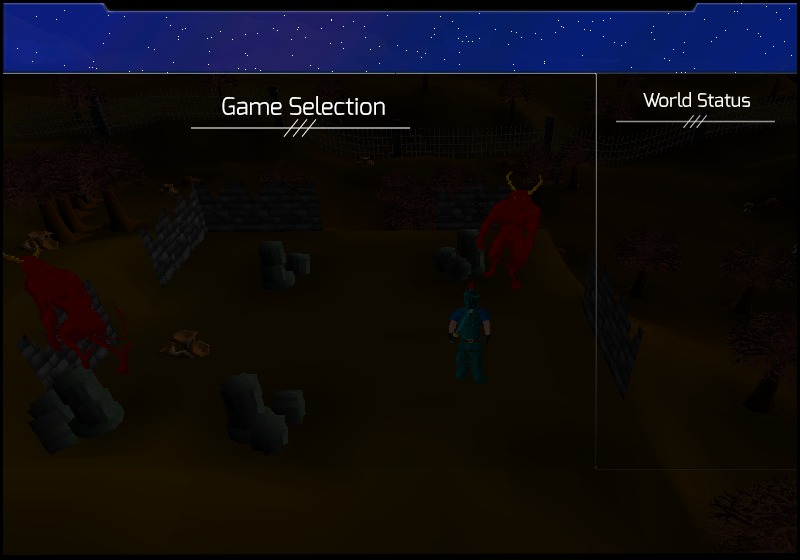
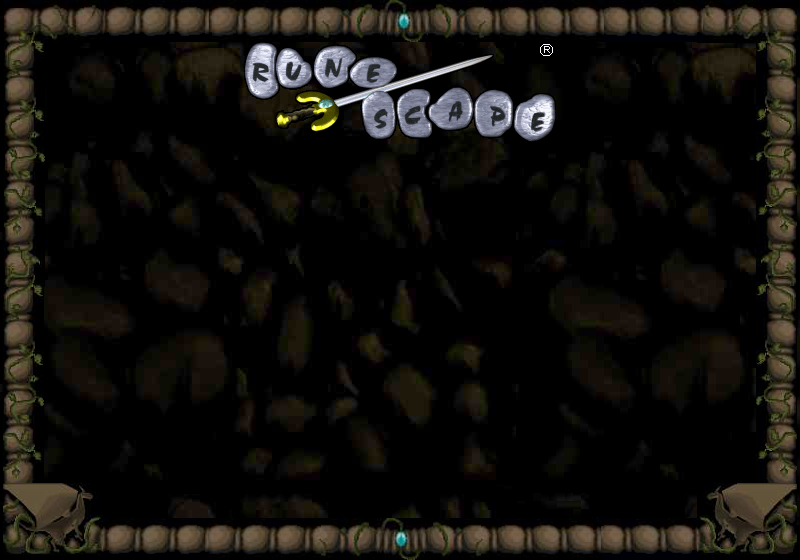
PC launcher redesign

diff --git a/PC_Launcher/src/com/loader/openrsc/frame/AppFrame.java b/PC_Launcher/src/com/loader/openrsc/frame/AppFrame.java
@@ -20,12 +20,10 @@ public class AppFrame extends JFrame {
 	// ORSC section
 	private JLabel orsc_status;
 	private JLabel orsc_online;
-	private JLabel orsc_logins48;
 
 	// RSCC section
 	private JLabel rscc_status;
 	private JLabel rscc_online;
-	private JLabel rscc_logins48;
 
 	// Open PK section
 	private JLabel openpk_status;
@@ -35,9 +33,6 @@ public class AppFrame extends JFrame {
 
 	// Dev World section
 	private JLabel dev_status;
-
-	// Localhost section
-	private JLabel local_status;
 
 	private CheckCombo comboBox;
 
@@ -64,26 +59,11 @@ public class AppFrame extends JFrame {
 	public void build() {
 		Random rand = new Random();
 		int value = rand.nextInt(6);
-		if (value == 0) {
-			(this.bg = new JLabel(Utils.getImage("background.png"))).setBounds(0, 0, 800, 560);
-		} else if (value == 1) {
-			(this.bg = new JLabel(Utils.getImage("background2.png"))).setBounds(0, 0, 800, 560);
-		} else if (value == 2) {
-			(this.bg = new JLabel(Utils.getImage("background3.png"))).setBounds(0, 0, 800, 560);
-		} else if (value == 3) {
-			(this.bg = new JLabel(Utils.getImage("background4.png"))).setBounds(0, 0, 800, 560);
-		} else if (value == 4) {
-			(this.bg = new JLabel(Utils.getImage("background5.png"))).setBounds(0, 0, 800, 560);
-		} else if (value == 5) {
-			(this.bg = new JLabel(Utils.getImage("background6.png"))).setBounds(0, 0, 800, 560);
-		} else if (value == 6) {
-			(this.bg = new JLabel(Utils.getImage("background7.png"))).setBounds(0, 0, 800, 560);
-		}
+		(this.bg = new JLabel(Utils.getImage("background.png"))).setBounds(0, 0, 800, 560);
 
 		this.add(this.bg);
 		this.addGameSelection();
 		this.addButtons();
-		this.addGameDescriptions();
 		this.addMouseListener(new PositionListener(this));
 		this.addMouseMotionListener(new PositionListener(this));
 		this.pack();
@@ -92,16 +72,9 @@ public class AppFrame extends JFrame {
 	}
 
 	private void addGameSelection() {
-		// Header text
-		JLabel text;
-		(text = new JLabel(Constants.Title)).setBounds(250, 19, 600, 45);
-		text.setForeground(new Color(255, 255, 255, 220));
-		text.setFont(Utils.getFont("Exo-Regular.otf", 1, 24.0f));
-		this.bg.add(text);
-
 		// Version text
 		JLabel subText;
-		(subText = new JLabel("Version " + String.format("%8.6f", Constants.VERSION_NUMBER))).setBounds(650, 54, 170, 15);
+		(subText = new JLabel("Version " + String.format("%8.6f", Constants.VERSION_NUMBER))).setBounds(630, 40, 170, 15);
 		subText.setForeground(new Color(255, 255, 255, 220));
 		subText.setFont(Utils.getFont("Exo-Regular.otf", 1, 10.0f));
 		this.bg.add(subText);
@@ -123,12 +96,6 @@ public class AppFrame extends JFrame {
 		this.rscc_online.setBounds(rscc_x, rscc_y + 13, 327, 15);
 		this.bg.add(this.rscc_online);
 
-		// Logged in the last 48 hours - spaced 16px apart
-		(this.rscc_logins48 = new JLabel("Online Last 48 Hours: N/A")).setForeground(Color.WHITE);
-		this.rscc_logins48.setFont(Utils.getFont("Exo-Regular.otf", 0, 11.0f));
-		this.rscc_logins48.setBounds(rscc_x, rscc_y + 26, 327, 15);
-		this.bg.add(this.rscc_logins48);
-
 		/*
 		 * Open RSC
 		 */
@@ -145,12 +112,6 @@ public class AppFrame extends JFrame {
 		this.orsc_online.setFont(Utils.getFont("Exo-Regular.otf", 0, 11.0f));
 		this.orsc_online.setBounds(orsc_x, orsc_y + 13, 327, 15);
 		this.bg.add(this.orsc_online);
-
-		// Logged in the last 48 hours - spaced 16px apart
-		(this.orsc_logins48 = new JLabel("Online Last 48 Hours: N/A")).setForeground(Color.WHITE);
-		this.orsc_logins48.setFont(Utils.getFont("Exo-Regular.otf", 0, 11.0f));
-		this.orsc_logins48.setBounds(orsc_x, orsc_y + 26, 327, 15);
-		this.bg.add(this.orsc_logins48);
 
 		/*
 		 * Open PK
@@ -186,31 +147,19 @@ public class AppFrame extends JFrame {
 		this.bg.add(this.dev_status);
 
 		/*
-		 * Localhost
-		 */
-		// Server status check - spaced 12px apart
-		(this.local_status = new JLabel(Constants.LOCALHOST_GAME_NAME + ": N/A")).setForeground(Color.WHITE);
-		this.local_status.setFont(Utils.getFont("Exo-Regular.otf", 0, 11.0f));
-		int local_x = 630;
-		int local_y = dev_y + 26; //
-		this.local_status.setBounds(local_x, local_y + 12, 327, 15);
-		this.bg.add(this.local_status);
-
-		/*
 		 * Sprite pack
 		 */
-
-		//Sprite pack
+		// Sprite pack
 		JLabel sprite_pack = new JLabel("Available sprite packs:");
 		sprite_pack.setForeground(Color.WHITE);
-		sprite_pack.setBounds(600, local_y + 100, 150, 15);
+		sprite_pack.setBounds(610, dev_y + 50, 150, 15);
 		this.bg.add(sprite_pack);
 
 		comboBox = new CheckCombo();
-		comboBox.combo.setBounds(600, local_y + 120, 190, 30);
+		comboBox.combo.setBounds(610, dev_y + 70, 150, 30);
 
 		this.bg.add(comboBox.combo);
-		(this.progress = new JProgressBar(0, 100)).setBounds(27, 530, 508, 18);
+		(this.progress = new JProgressBar(0, 100)).setBounds(95, 495, 508, 18);
 		this.progress.setBackground(new Color(45, 46, 42));
 		this.progress.setFont(Utils.getFont("Exo-Regular.otf", 1, 11.0f));
 		this.progress.setOpaque(true);
@@ -241,15 +190,15 @@ public class AppFrame extends JFrame {
 
 	private void addButtons() {
 		// Link button section
-		int link_button_x = 28;
-		int link_button_y = 480;
+		int link_button_x = 95; // was 28
+		int link_button_y = 450; // was 480
 		this.bg.add(new LinkButton(Constants.BUTTON1, new Rectangle(link_button_x, link_button_y, 119, 40)));
 		this.bg.add(new LinkButton(Constants.BUTTON2, new Rectangle(link_button_x + 130, link_button_y, 119, 40)));
 		this.bg.add(new LinkButton(Constants.BUTTON3, new Rectangle(link_button_x + 260, link_button_y, 119, 40)));
 		this.bg.add(new LinkButton(Constants.BUTTON4, new Rectangle(link_button_x + 390, link_button_y, 119, 40)));
 
 		// Launch button section
-		(this.launch = new LaunchButton()).setBounds(617, 477, 174, 69);
+		(this.launch = new LaunchButton()).setBounds(267, 380, 166, 60);
 		this.bg.add(this.launch);
 
 		// Control button section
@@ -282,68 +231,11 @@ public class AppFrame extends JFrame {
 		group.add(devRadioButton);
 		group.add(localRadioButton);
 
-		for (Enumeration<AbstractButton> buttons = group.getElements(); buttons.hasMoreElements();) {
+		for (Enumeration<AbstractButton> buttons = group.getElements(); buttons.hasMoreElements(); ) {
 			RadioButton button = (RadioButton) buttons.nextElement();
 			button.setEnabled(false);
 			this.bg.add(button);
 		}
-	}
-
-	private void addGameDescriptions() {
-		int rscc_x = 143;
-		int rscc_y = 152;
-		int orsc_x = 165;
-		int orsc_y = rscc_y + 29; // 188
-		int openpk_y = orsc_y + 29; //
-		int rscp_y = openpk_y + 29; //
-		int openpk_x = 185;
-		int rscp_x = 250;
-		int dev_x = 150;
-		int dev_y = rscp_y + 27; // 215
-		int local_x = 165;
-		int local_y = dev_y + 29; // 242
-
-		// RSC Cabbage
-		JLabel rsccDescription;
-		(rsccDescription = new JLabel("-> 5x xp rate, runs 30% faster, auction house, batched skills, etc")).setBounds(orsc_x, rscc_y, 600, 18);
-		rsccDescription.setForeground(new Color(255, 255, 255, 220));
-		rsccDescription.setFont(Utils.getFont("Exo-Regular.otf", 0, 13.0f));
-		this.bg.add(rsccDescription);
-
-		// Open RSC
-		JLabel orscDescription;
-		(orscDescription = new JLabel("-> 1x xp rate, bank notes, quick banking, near-authentic")).setBounds(rscc_x, orsc_y, 600, 18);
-		orscDescription.setForeground(new Color(255, 255, 255, 220));
-		orscDescription.setFont(Utils.getFont("Exo-Regular.otf", 0, 13.0f));
-		this.bg.add(orscDescription);
-
-		// Open PK
-		JLabel openpkDescription;
-		(openpkDescription = new JLabel("-> Stork PK remake")).setBounds(openpk_x, openpk_y, 600, 18);
-		openpkDescription.setForeground(new Color(255, 255, 255, 220));
-		openpkDescription.setFont(Utils.getFont("Exo-Regular.otf", 0, 13.0f));
-		this.bg.add(openpkDescription);
-
-		// RSC Preservation
-		JLabel rscpDescription;
-		(rscpDescription = new JLabel("-> authentic RSC")).setBounds(rscp_x, rscp_y, 600, 18);
-		rscpDescription.setForeground(new Color(255, 255, 255, 220));
-		rscpDescription.setFont(Utils.getFont("Exo-Regular.otf", 0, 13.0f));
-		this.bg.add(rscpDescription);
-
-		// Dev World
-		JLabel devDescription;
-		(devDescription = new JLabel("-> experimental world for testing the latest code")).setBounds(dev_x, dev_y, 600, 18);
-		devDescription.setForeground(new Color(255, 255, 255, 220));
-		devDescription.setFont(Utils.getFont("Exo-Regular.otf", 0, 13.0f));
-		this.bg.add(devDescription);
-
-		// Single Player
-		JLabel localhostDescription;
-		(localhostDescription = new JLabel("-> requires first starting the single player server")).setBounds(local_x, local_y, 600, 18);
-		localhostDescription.setForeground(new Color(255, 255, 255, 220));
-		localhostDescription.setFont(Utils.getFont("Exo-Regular.otf", 0, 13.0f));
-		this.bg.add(localhostDescription);
 	}
 
 	public JProgressBar getProgress() {
@@ -363,10 +255,6 @@ public class AppFrame extends JFrame {
 		return this.rscc_online;
 	}
 
-	public JLabel getrsccLogins48() {
-		return this.rscc_logins48;
-	}
-
 	// ORSC section
 	public JLabel getorscStatus() {
 		return this.orsc_status;
@@ -374,10 +262,6 @@ public class AppFrame extends JFrame {
 
 	public JLabel getorscOnline() {
 		return this.orsc_online;
-	}
-
-	public JLabel getorscLogins48() {
-		return this.orsc_logins48;
 	}
 
 	// Open PK section
@@ -395,13 +279,11 @@ public class AppFrame extends JFrame {
 		return this.dev_status;
 	}
 
-	// Localhost section
-	public JLabel getlocalStatus() {
-		return this.local_status;
+	// Spritepack combobox
+	public CheckCombo getSpriteCombo() {
+		return this.comboBox;
 	}
 
-	//Spritepack combobox
-	public CheckCombo getSpriteCombo() { return this.comboBox; }
 	public CheckCombo.store[] getComboBoxState() {
 		int entryCount = comboBox.combo.getItemCount();
 		CheckCombo.store[] items = new CheckCombo.store[entryCount];

diff --git a/PC_Launcher/src/com/loader/openrsc/frame/threads/Statistics.java b/PC_Launcher/src/com/loader/openrsc/frame/threads/Statistics.java
@@ -15,12 +15,8 @@ public class Statistics implements Runnable {
 		try {
 			Document document = Jsoup.connect(Constants.RSCC_WORLD_STATS_URL).get();
 
-			for (Element getrsccOnline : document.select("a[href$=\"cabbageonline\"]")) {
+			for (Element getrsccOnline : document.select("a[href$=\"online\"]")) {
 				AppFrame.get().getrsccOnline().setText("<html>Players Online: <span style='color:00FF00;'>" + getrsccOnline.text() + "</span></html>");
-			}
-
-			for (Element getrsccLogins48 : document.select("a[href$=\"cabbagelogins48\"]")) {
-				AppFrame.get().getrsccLogins48().setText("<html>Online Last 48 Hours: <span style='color:00FF00;'>" + getrsccLogins48.text() + "</span></html>");
 			}
 		} catch (Exception ignored) {
 		}
@@ -31,10 +27,6 @@ public class Statistics implements Runnable {
 
 			for (Element getorscOnline : document.select("a[href$=\"online\"]")) {
 				AppFrame.get().getorscOnline().setText("<html>Players Online: <span style='color:00FF00;'>" + getorscOnline.text() + "</span></html>");
-			}
-
-			for (Element getorscLogins48 : document.select("a[href$=\"logins48\"]")) {
-				AppFrame.get().getorscLogins48().setText("<html>Online Last 48 Hours: <span style='color:00FF00;'>" + getorscLogins48.text() + "</span></html>");
 			}
 		} catch (Exception ignored) {
 		}

diff --git a/PC_Launcher/src/com/loader/openrsc/Constants.java b/PC_Launcher/src/com/loader/openrsc/Constants.java
@@ -8,13 +8,13 @@ public class Constants {
 
 	// RSC Cabbage
 	public static final String RSCC_GAME_NAME = "RSC Cabbage";
-	public static final String RSCC_WORLD_STATS_URL = "https://openrsc.com/stats"; // Used for the world statistics
+	public static final String RSCC_WORLD_STATS_URL = "https://rsccabbage.com"; // Used for the world statistics
 	static final String RSCC_SERVER_DOMAIN = "game.openrsc.com"; // Used for the server status display
 	static final int RSCC_SERVER_PORT = 43595;
 
 	// Open RSC
 	public static final String ORSC_GAME_NAME = "Open RSC";
-	public static final String ORSC_WORLD_STATS_URL = "https://openrsc.com/orscstats"; // Used for the world statistics
+	public static final String ORSC_WORLD_STATS_URL = "https://openrsc.com"; // Used for the world statistics
 	static final String ORSC_SERVER_DOMAIN = "game.openrsc.com"; // Used for the server status display
 	static final int ORSC_SERVER_PORT = 43594;
 

diff --git a/PC_Launcher/src/com/loader/openrsc/frame/threads/StatusChecker.java b/PC_Launcher/src/com/loader/openrsc/frame/threads/StatusChecker.java
@@ -89,20 +89,6 @@ public class StatusChecker implements Runnable {
 			} catch (Exception ignored) {
 			}
 		}
-		if (game.equals("local")) {
-			try {
-				boolean isOnline = isOnline();
-				String text = isOnline ? "Online" : "Offline";
-				String color = isOnline ? "#00FF00" : "#FF0000";
-				AppFrame.get().getlocalStatus().setText("<html>Single Player: <span style='color:" + color + ";'>" + text + "</span></html>");
-			} catch (Exception e1) {
-				e1.printStackTrace();
-			}
-			try {
-				Thread.sleep(15000L);
-			} catch (Exception ignored) {
-			}
-		}
 	}
 
 	private boolean isOnline() {
